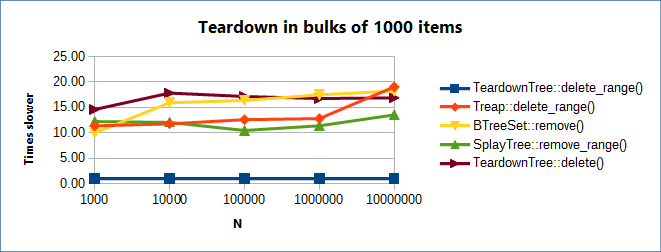
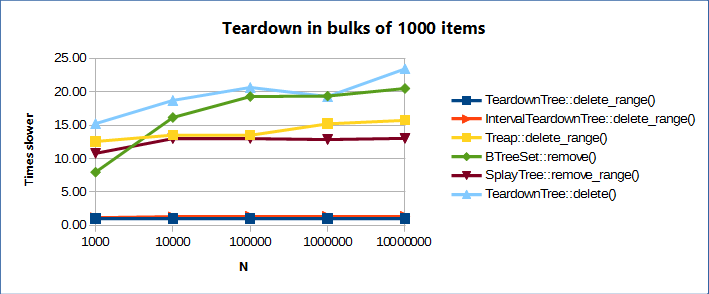
updated benchmarks

Changed region(s): [[0.0303, 0.1667, 0.6354, 0.9167], [0.0, 0.0, 1.0, 1.0], [0.3026, 0.0556, 0.6959, 0.1389]]

diff --git a/benchmarks/src/main.rs b/benchmarks/src/main.rs
@@ -91,12 +91,9 @@ fn bench_refill_impl<M: TeardownTreeMaster>(_: usize, spec: &[u64]) -> (String, 
 
 
 fn main() {
-    bench_refill::<TreeBulk>(100, 40000000);
-    bench_refill_impl::<TreeBulk>(10, &[170000000,   80000000,   12000000,   1100000,    65000,  2400,   230]);
-
-
     bench_table(10, "Refill", &[
         BenchJob::new(&bench_refill_impl::<TreeBulk>,            &[170000000,   80000000,   12000000,   1100000,    65000,  2400,   230]),
+        BenchJob::new(&bench_refill_impl::<IntervalTreeBulk>,    &[150000000,   70000000,   11000000,   1000000,    60000,  2200,   210]),
         BenchJob::new(&bench_refill_impl::<TreapMaster>,         &[7000000,     460000,     48000,      5000,       300,    25,     3]),
         BenchJob::new(&bench_refill_impl::<BTreeSetMaster>,      &[27000000,    3500000,    350000,     30000,      2300,   110,    10]),
         BenchJob::new(&bench_refill_impl::<SplayMaster>,         &[7000000,     540000,     50000,      4500,       400,    25,     3]),
